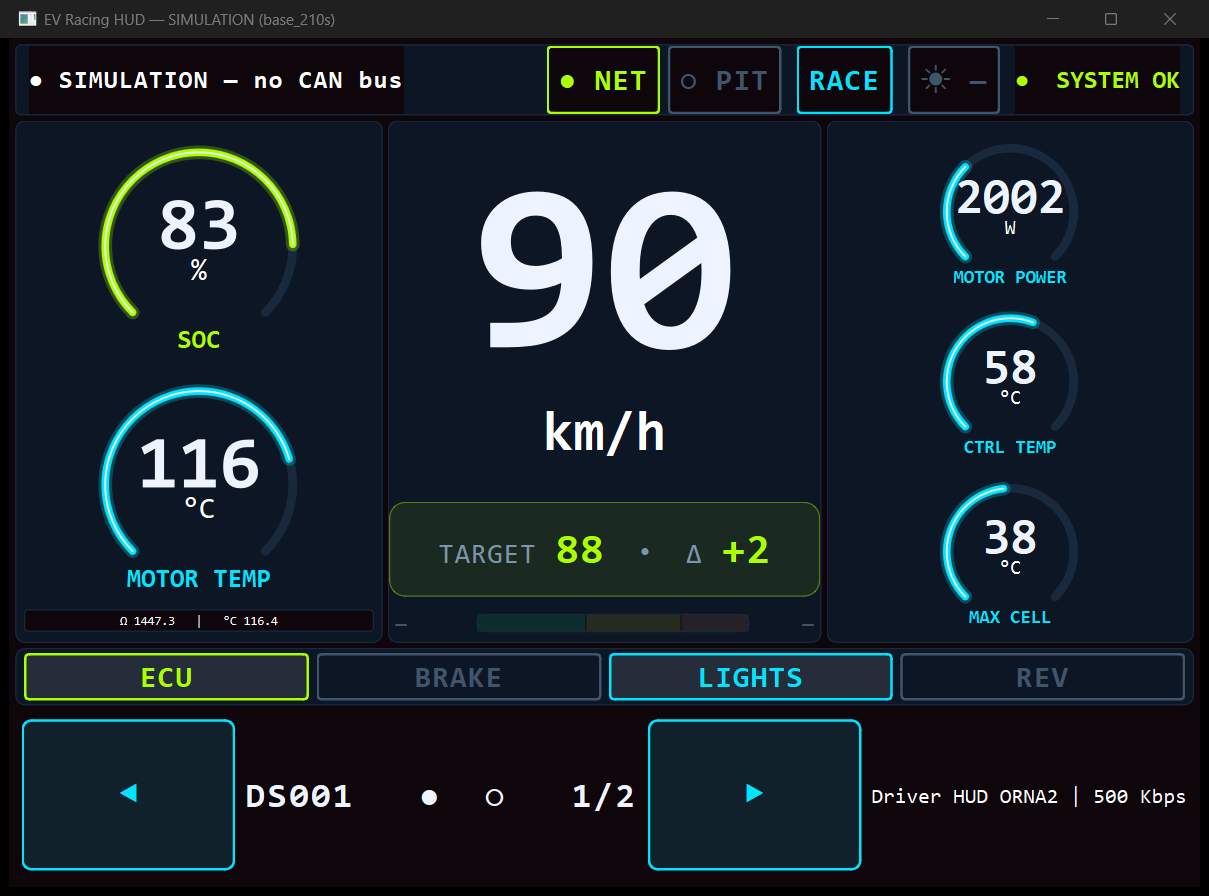
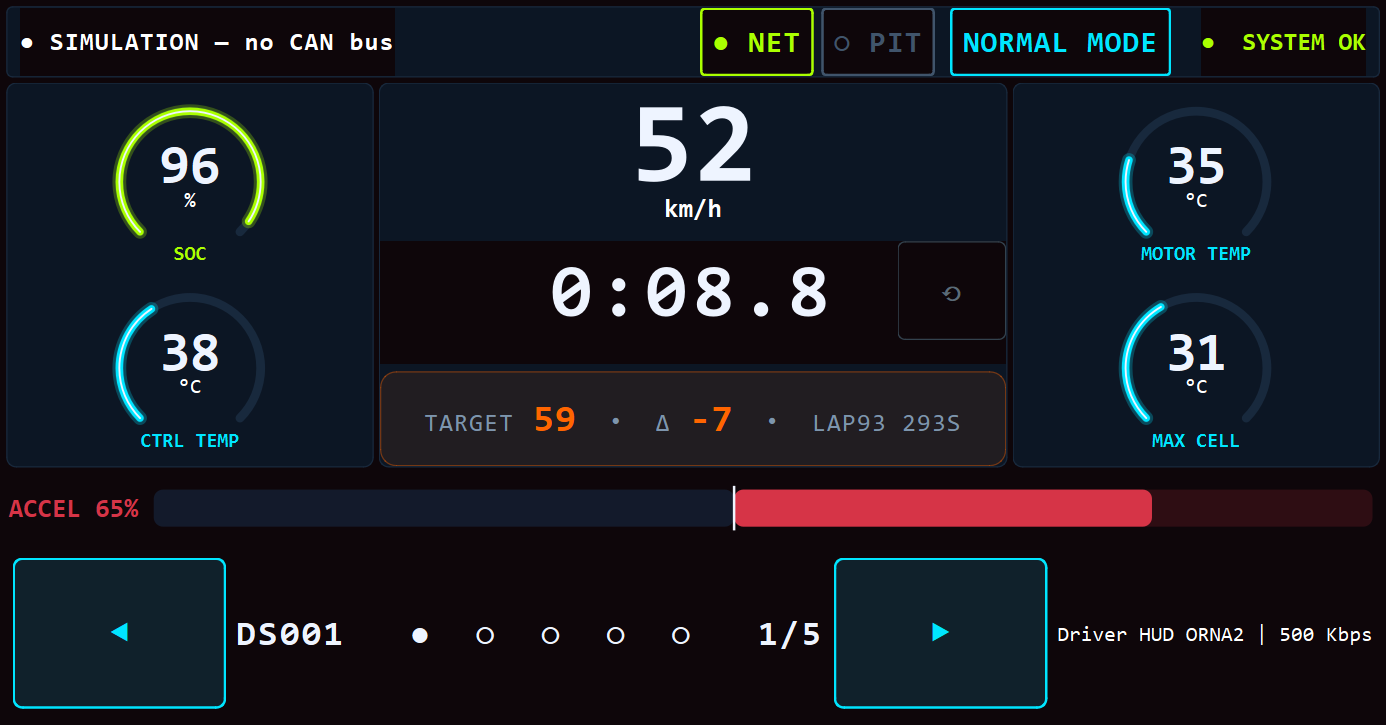
Docs: refresh the README screenshots (React Pit Wall, current HUD)

diff --git a/README.md b/README.md
@@ -23,7 +23,7 @@ giving engineers live battery, motor, temperature, and strategy data.
 </td>
 <td width="50%">
 
-**Pit Wall** — `Pit_Dashboard`, sample telemetry
+**Pit Wall** — `Pit_Web`, demo data (`Start Demo Dashboard.bat`)
 <img src=".github/screenshots/pit_dashboard_simulation.png" alt="Pit Wall dashboard with sample telemetry">
 
 </td>
